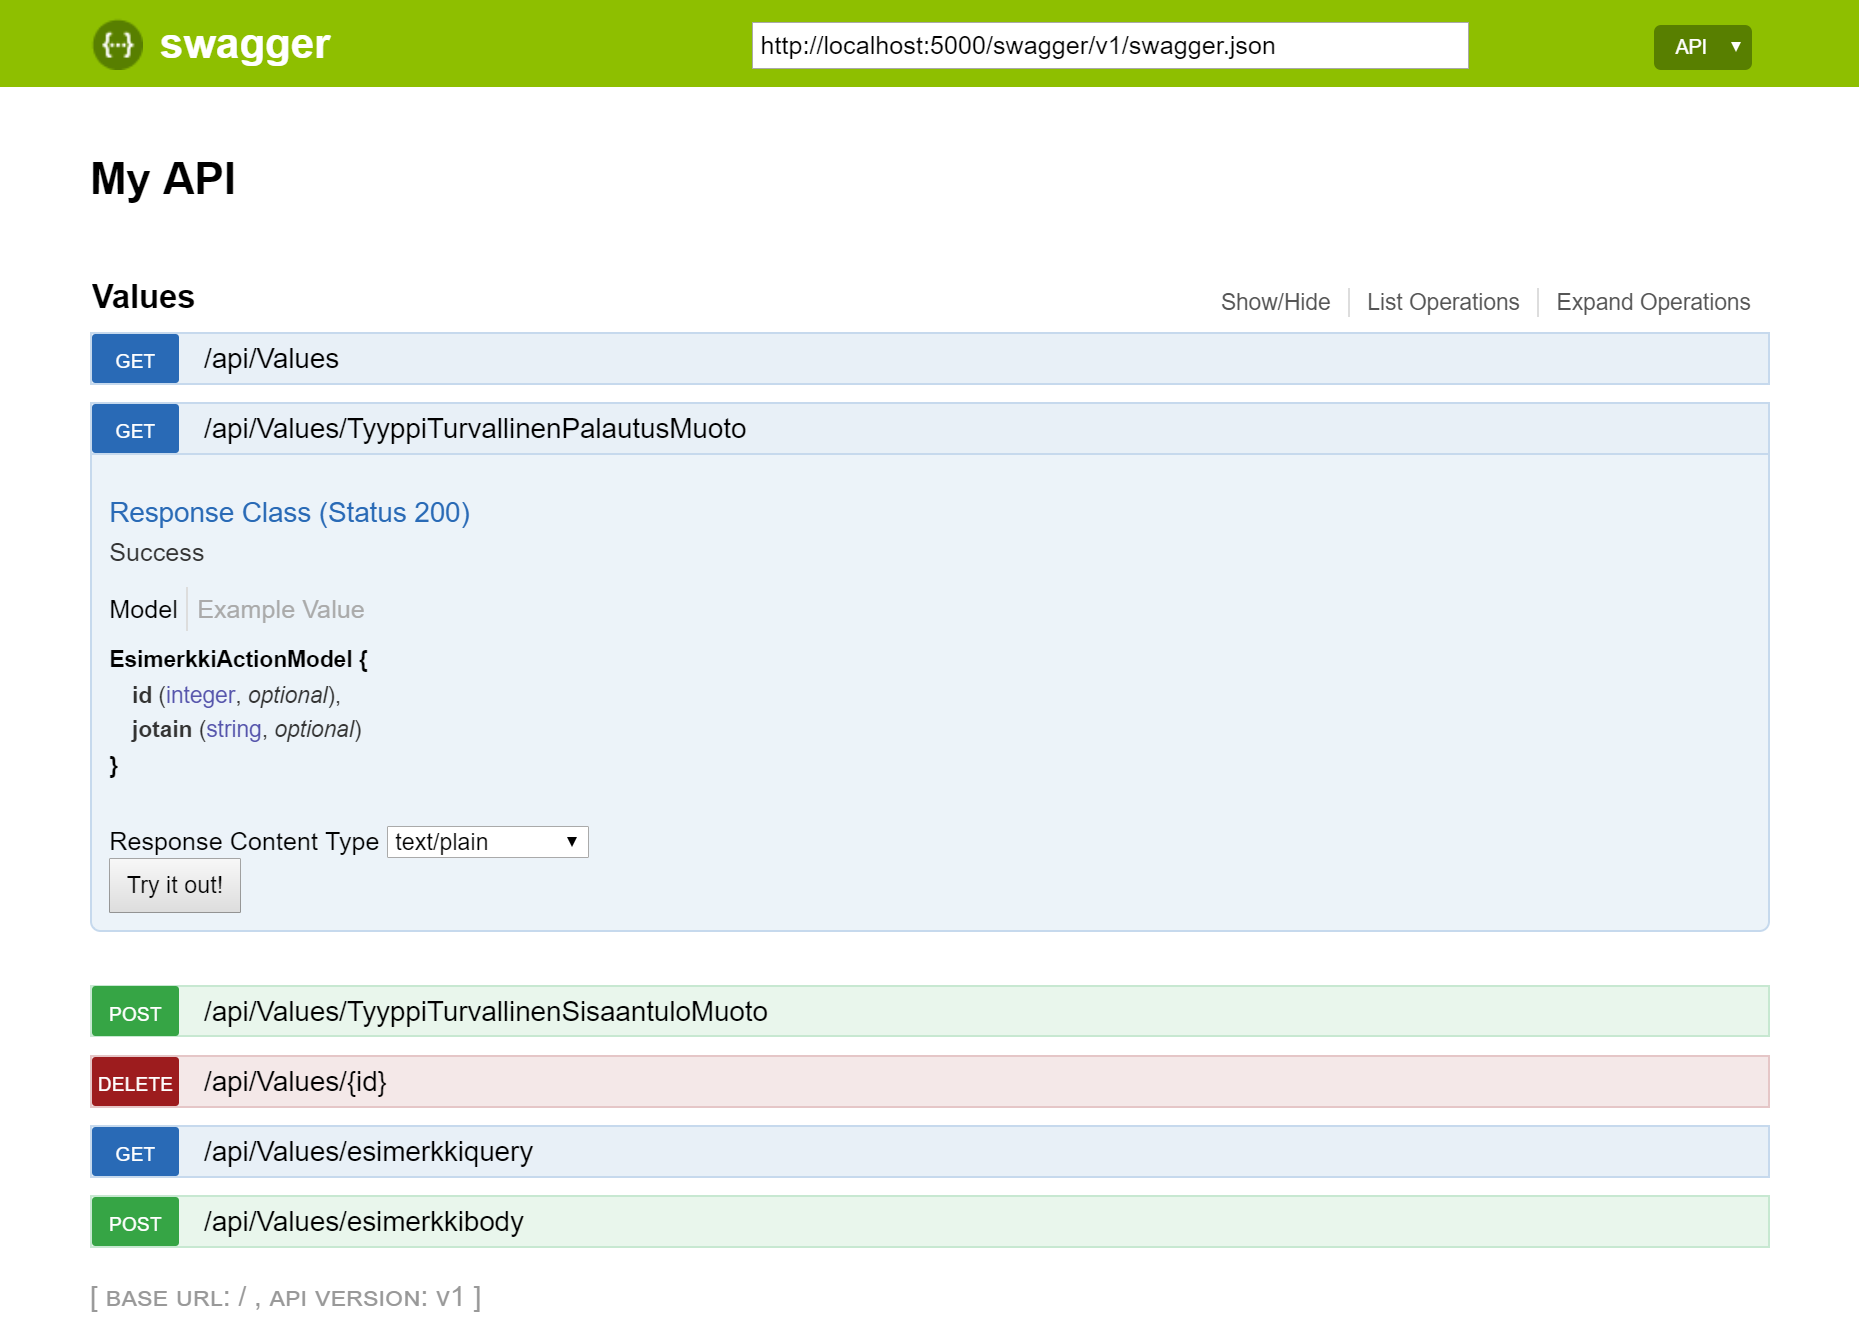
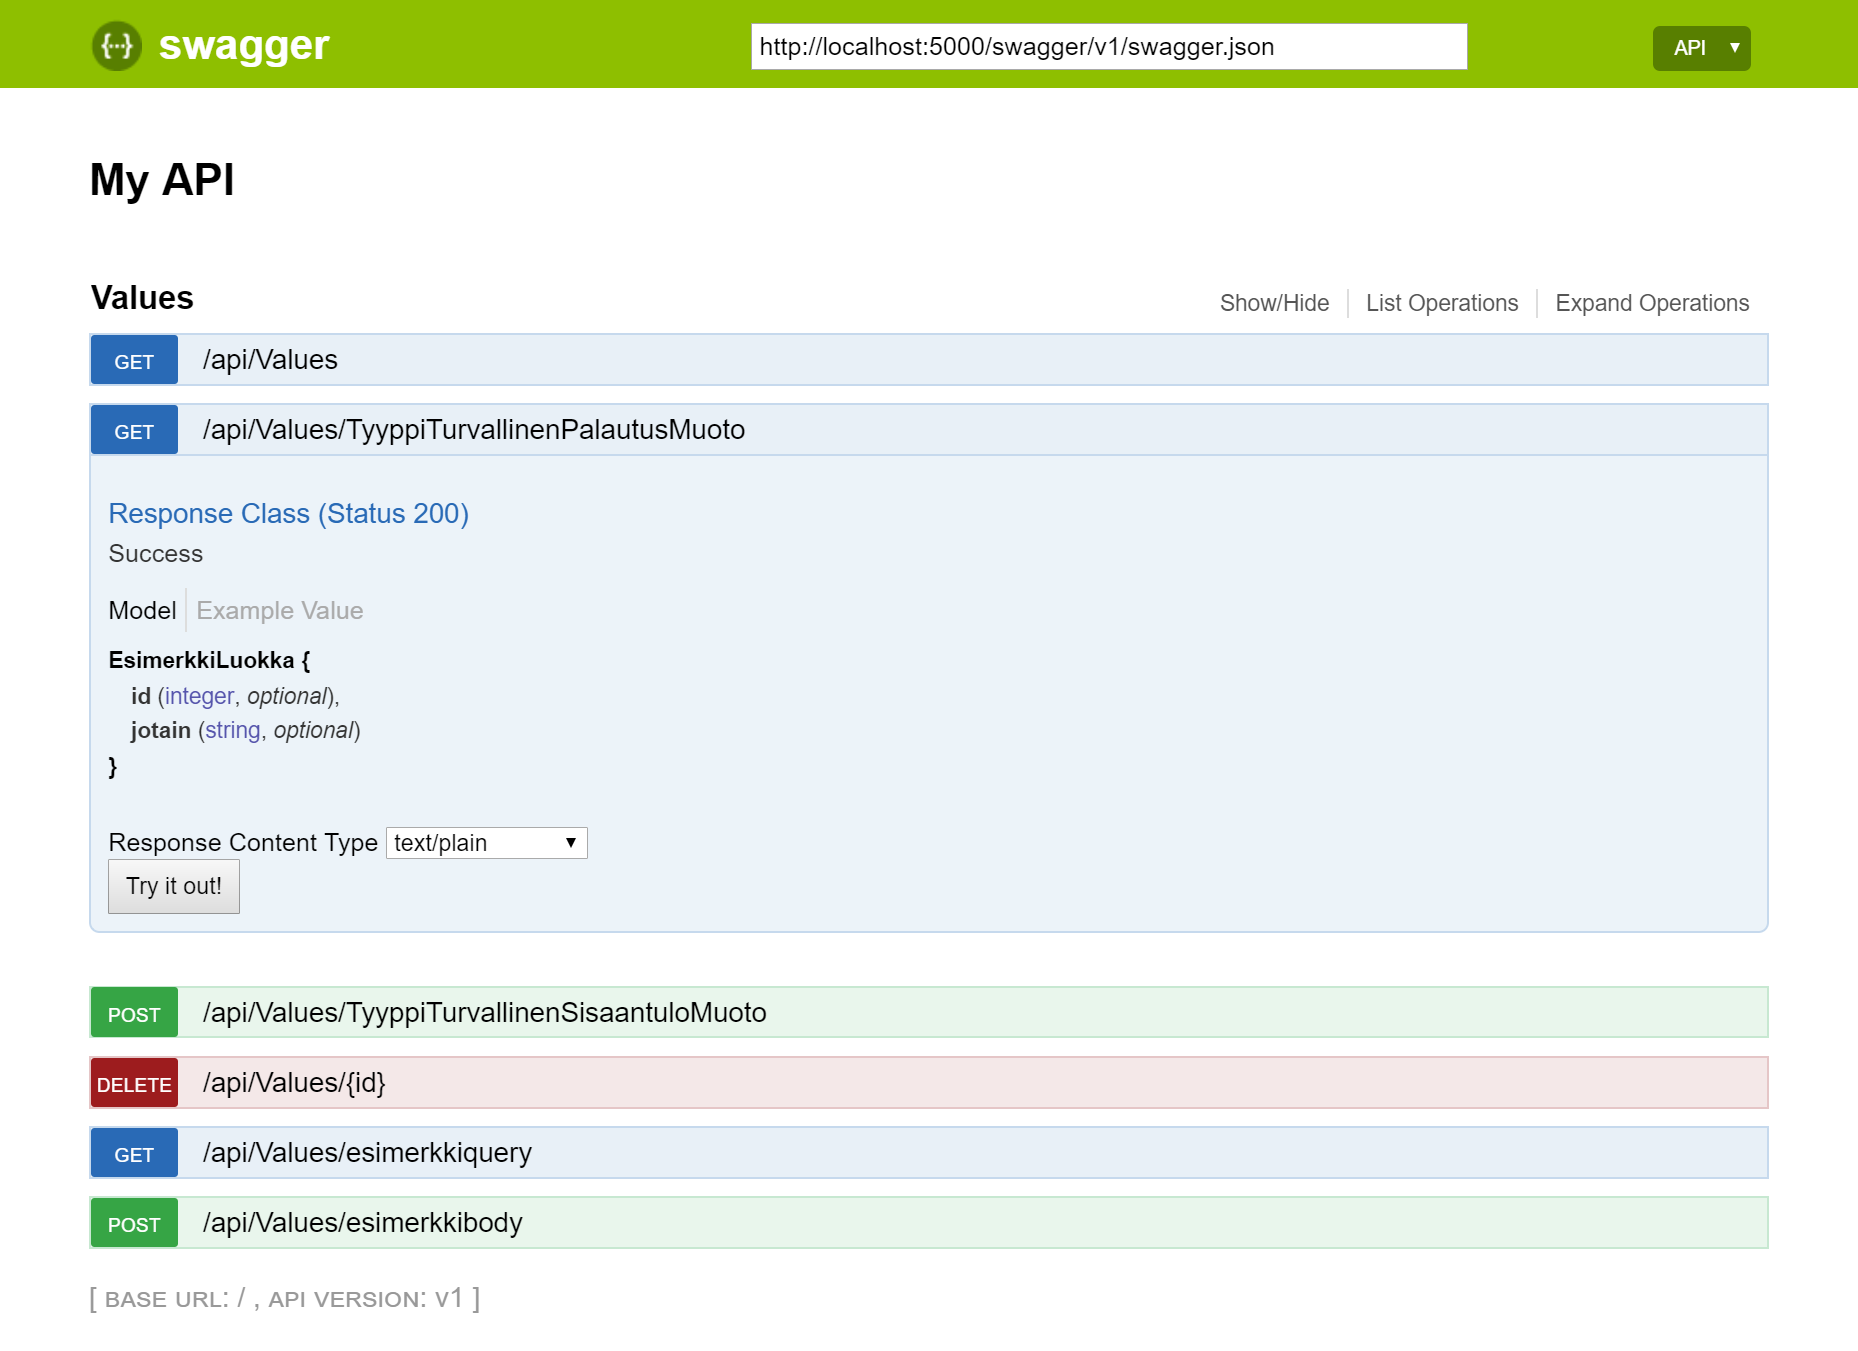
...

diff --git a/index.html b/index.html
@@ -120,7 +120,7 @@
         img {
             display: block;
             width: 100%;
-            border: 1px solid black;
+            border: 1px solid #ccc;
             padding: 5px;
         }
         ul {

diff --git a/KirjautumisEsimerkki/Controllers/ValuesController.cs b/KirjautumisEsimerkki/Controllers/ValuesController.cs
@@ -22,11 +22,11 @@ namespace KirjautumisEsimerkki.Controllers
         // Tämän actionin osoite: api/values/TyyppiTurvallinenPalautusMuoto2
         // HTTP verbi: GET
         // maaginen tekstinpätkä [action] korvataan siis metodin nimellä
-        // palautetaan objekti
+        // palautetaan JSON objekti
         [HttpGet("[action]")] 
-        public EsimerkkiActionModel TyyppiTurvallinenPalautusMuoto()
+        public EsimerkkiLuokka TyyppiTurvallinenPalautusMuoto()
         {
-            return new EsimerkkiActionModel() {
+            return new EsimerkkiLuokka() {
                 Id = 123,
                 Jotain = "arvo"
             };
@@ -38,7 +38,7 @@ namespace KirjautumisEsimerkki.Controllers
         // Palautetaan JSON tekstiarvo 
         [HttpPost("[action]")]
         public string TyyppiTurvallinenSisaantuloMuoto(
-            [FromBody] EsimerkkiActionModel value)
+            [FromBody] EsimerkkiLuokka value)
         {
             return "ok";
         }
@@ -67,7 +67,7 @@ namespace KirjautumisEsimerkki.Controllers
             };
         }
 
-        public class EsimerkkiActionModel {
+        public class EsimerkkiLuokka {
             public int Id { get; set; }
             public string Jotain { get; set; }
         }
